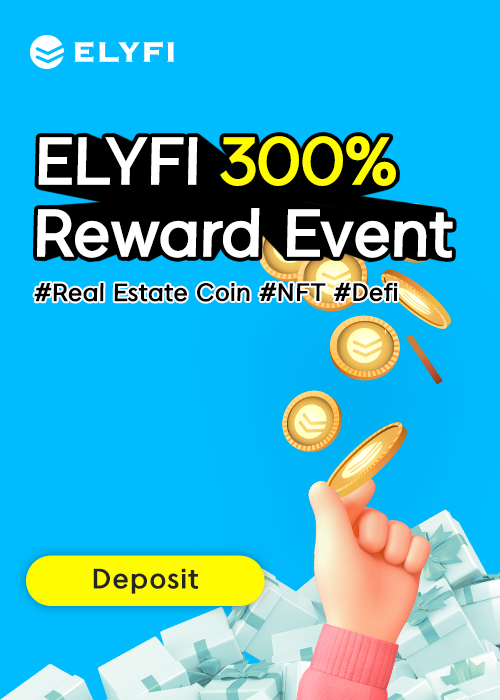
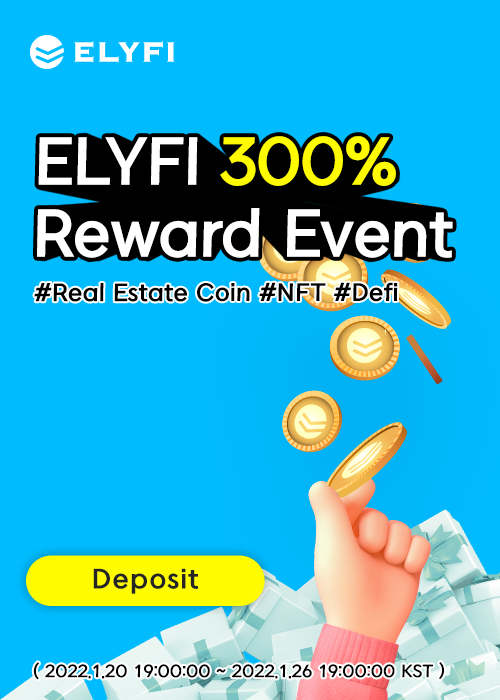
add event time & change modal

Changed region(s): [[0.27, 0.93, 0.9, 0.99], [0.06, 0.93, 0.24, 0.99]]

diff --git a/src/containers/Dashboard.tsx b/src/containers/Dashboard.tsx
@@ -16,7 +16,7 @@ import TransactionConfirmModal from 'src/components/TransactionConfirmModal';
 import IncentiveModal from 'src/containers/IncentiveModal';
 import isWalletConnect from 'src/hooks/isWalletConnect';
 import ConnectWalletModal from 'src/containers/ConnectWalletModal';
-import WrongMainnetModal from 'src/containers/WrongMainnetModal';
+import NetworkChangeModal from 'src/components/NetworkChangeModal';
 import RewardPlanButton from 'src/components/RewardPlan/RewardPlanButton';
 
 import ModalViewType from 'src/enums/ModalViewType';
@@ -130,9 +130,9 @@ const Dashboard: React.FunctionComponent = () => {
           setConnectWalletModalvisible(false);
         }}
       />
-      <WrongMainnetModal
+      <NetworkChangeModal
         visible={wrongMainnetModalVisible}
-        onClose={() => {
+        closeHandler={() => {
           setWrongMainnetModalVisible(false);
         }}
       />
@@ -146,9 +146,14 @@ const Dashboard: React.FunctionComponent = () => {
                 EVENT
               </p>
             </div>
-            <h2>
-              <Trans i18nKey={t("dashboard.event_title")} />
-            </h2>
+            <div>
+              <h2>
+                <Trans i18nKey={t("dashboard.event_title")} />
+              </h2>
+              <p>
+                2022.1.20 19:00:00 ~ 2022.1.26 19:00:00 KST
+              </p>
+            </div>
           </div>
           <img src={EventImage} />
         </div>

diff --git a/src/stylesheet/mobile.scss b/src/stylesheet/mobile.scss
@@ -945,16 +945,25 @@ $bold: 'SpoqaHanSansNeo-Bold', 'Montserrat-bold';
       margin-bottom: 40px;
       position: relative;
       &__box {
-        display: none;
+        display: none !important;
       }
       > div {
         z-index: 2;
-        > h2 {
-          font-size: 13px;
+        > div {
           margin-left: 15px;
-          line-height: 20px;
-          strong {
-            color: $elysia-color;
+          height: 70px;
+          > h2 {
+            font-size: 13px;
+            line-height: 20px;
+            text-shadow: 2px 0px 4px #FFFFFF;
+            strong {
+              color: $elysia-color;
+            }
+          }
+          > p {
+            font-size: 10px;
+            color: $font-color;
+            text-shadow: 2px 0px 4px #FFFFFF;
           }
         }
       }

diff --git a/src/stylesheet/public.scss b/src/stylesheet/public.scss
@@ -913,12 +913,22 @@ input[type='number'] {
         display: flex;
         flex-direction: row;
         align-items: center;
-        > h2 {
-          font-size: 20px;
+        > div {
           margin-left: 20px;
-          line-height: 35px;
-          strong {
-            color: $elysia-color;
+          height: 90px;
+          display: flex;
+          flex-direction: column;
+          justify-content: space-between;
+          > h2 {
+            font-size: 20px;
+            line-height: 34px;
+            strong {
+              color: $elysia-color;
+            }
+          }
+          > p {
+            font-size: 14px;
+            color: $gray-font-color;
           }
         }
       }
